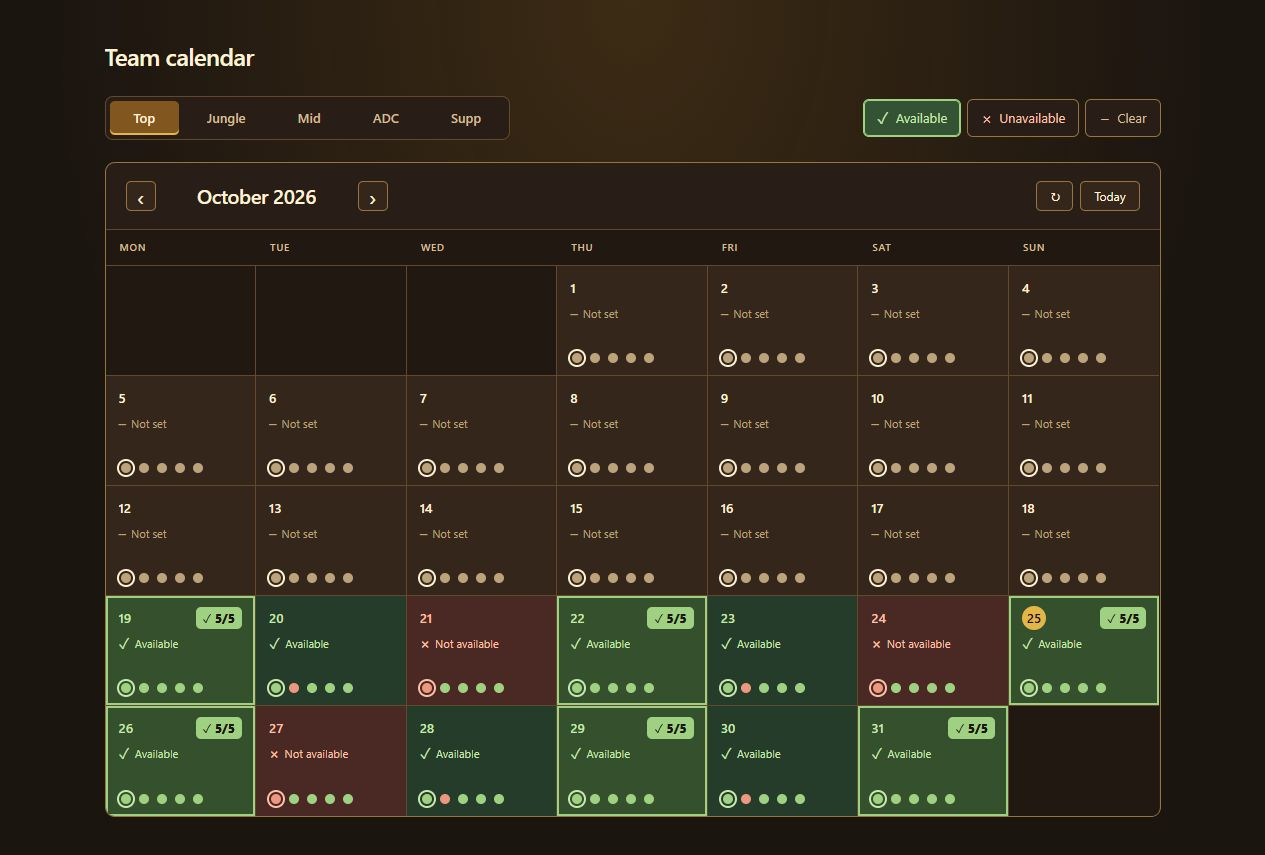
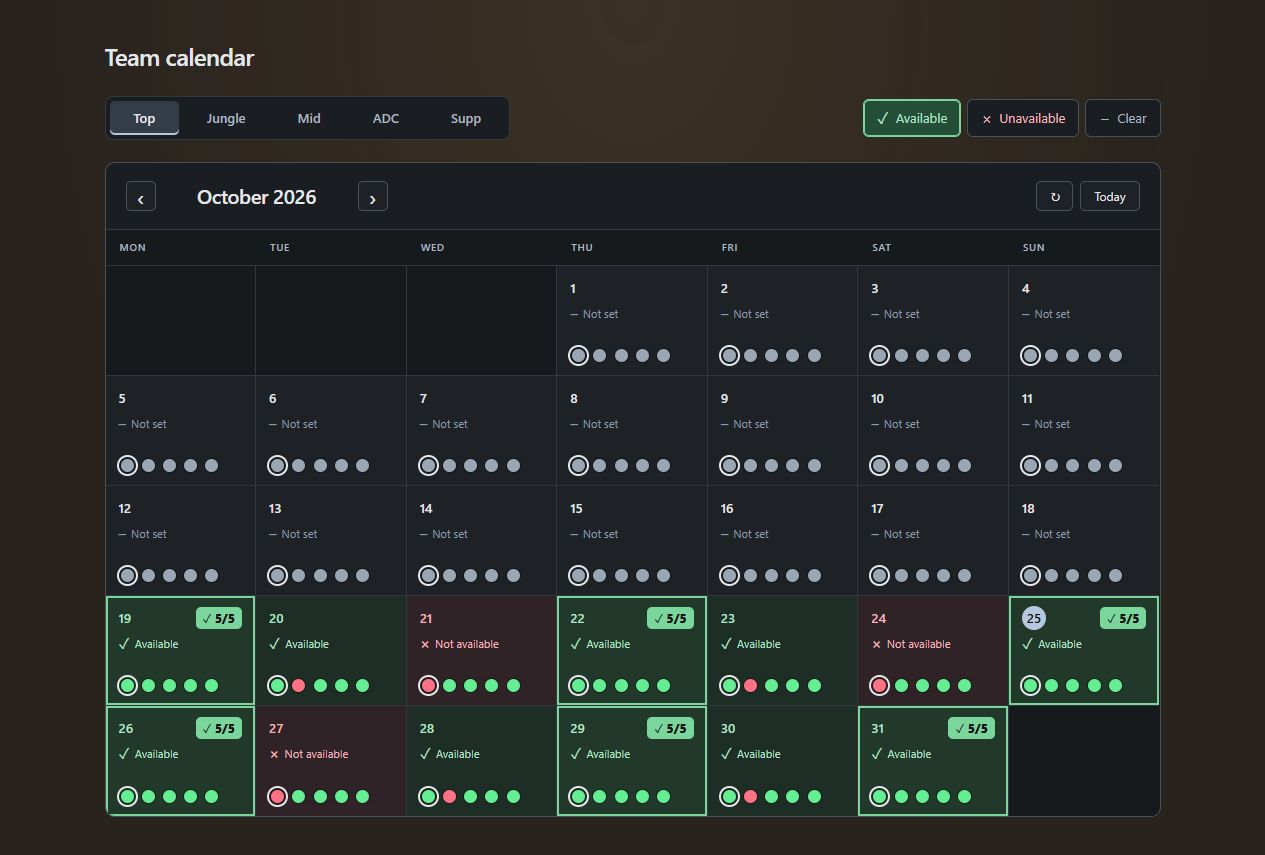
edited color palette, more easy on the eyes

diff --git a/src/styles.css b/src/styles.css
@@ -1,25 +1,30 @@
 :root {
-  --page: #1b1510;
-  --surface: #291e17;
-  --surface-raised: #35261c;
-  --surface-recessed: #211811;
-  --surface-hover: #4a3522;
-  --selected: #81571f;
-  --border: #62482c;
-  --border-strong: #98743e;
-  --text: #fff2d5;
-  --muted: #d4be98;
-  --subtle: #bca37c;
-  --accent: #e4b548;
-  --available-bg: #243c29;
-  --available-selected: #345334;
-  --available-accent: #a0d183;
-  --available-text: #c8e9ad;
-  --all-available-bg: #34502d;
-  --unavailable-bg: #4a2823;
-  --unavailable-selected: #63332b;
-  --unavailable-accent: #ed9780;
-  --unavailable-text: #ffc0a9;
+  --page: #29231e;
+  --page-glow: #9a77442b;
+  --surface: #1a1d21;
+  --surface-raised: #1e2227;
+  --surface-recessed: #171a1d;
+  --surface-hover: #2a3038;
+  --selected: #343c48;
+  --border: #34383e;
+  --border-strong: #49515b;
+  --text: #e5e7eb;
+  --muted: #aeb6c2;
+  --subtle: #8f9baa;
+  --accent: #b5c8e0;
+  --ink: #111315;
+  --available-bg: #1e2e26;
+  --available-selected: #244e38;
+  --available-accent: #7bd69d;
+  --available-text: #b4e4c6;
+  --all-available-bg: #22382b;
+  --unavailable-bg: #302328;
+  --unavailable-selected: #562e35;
+  --unavailable-accent: #eb8c98;
+  --unavailable-text: #f5b4bd;
+  --available-dot: #64ed93;
+  --unavailable-dot: #ff7185;
+  --unset-dot: #9ba6b5;
   font-family: Inter, -apple-system, BlinkMacSystemFont, "Segoe UI", sans-serif;
   color: var(--text);
   background: var(--page);
@@ -28,7 +33,7 @@
   line-height: 1.5;
 }
 * { box-sizing: border-box; }
-body { margin: 0; background: radial-gradient(ellipse at 50% 0, #a06d2140, transparent 65%); min-height: 100vh; }
+body { margin: 0; background: radial-gradient(ellipse at 50% 0, var(--page-glow), transparent 65%); min-height: 100vh; }
 button { font: inherit; cursor: pointer; touch-action: manipulation; }
 button:focus-visible { outline: 2px solid var(--accent); outline-offset: -3px; }
 button:disabled { cursor: wait; }
@@ -58,7 +63,7 @@ h2 { margin: 0; font-weight: 600; }
 .arrow, .today-button { border: 1px solid var(--border-strong); border-radius: 5px; background: var(--surface-raised); color: var(--text); }
 .arrow { width: 30px; height: 30px; font-size: 24px; line-height: 20px; }
 .today-button { padding: 5px 13px; font-size: 12px; }
-.arrow:hover, .today-button:hover { color: white; background: var(--surface-hover); }
+.arrow:hover, .today-button:hover { color: var(--text); background: var(--surface-hover); }
 .weekdays, .days { display: grid; grid-template-columns: repeat(7, minmax(0, 1fr)); }
 .days { touch-action: none; user-select: none; }
 .day { touch-action: none; }
@@ -71,22 +76,22 @@ h2 { margin: 0; font-weight: 600; }
 .day:hover { z-index: 1; box-shadow: inset 0 0 0 2px var(--accent); }
 .day.available { background: var(--available-bg); color: var(--available-text); }
 .day.unavailable { background: var(--unavailable-bg); color: var(--unavailable-text); }
-.day.is-today .day-number { display: grid; width: 24px; height: 24px; place-items: center; border-radius: 50%; background: var(--accent); color: var(--page); }
+.day.is-today .day-number { display: grid; width: 24px; height: 24px; place-items: center; border-radius: 50%; background: var(--accent); color: var(--ink); }
 .day-top { display: flex; height: 24px; align-items: center; justify-content: space-between; }
 .day-number { font-size: 13px; font-weight: 600; }
 .day-status { display: flex; gap: 5px; align-items: center; margin-top: 6px; font-size: 11px; }
 .day-status > span:first-child { font-size: 15px; font-weight: 600; line-height: 1; }
 .day.unset .day-status { color: var(--subtle); }
-.team-dots { display: flex; align-items: center; gap: 8px; margin-top: auto; padding: 13px 2px 2px; }
-.team-dot { display: inline-block; flex-shrink: 0; width: 10px; height: 10px; border-radius: 50%; }
-.team-dot.available { background: var(--available-accent); }
-.team-dot.unavailable { background: var(--unavailable-accent); }
-.team-dot.unset { background: var(--subtle); }
-.active-dot { outline: 2px solid currentColor; outline-offset: 2px; }
+.team-dots { display: flex; align-items: center; gap: clamp(4px, .65vw, 9px); margin-top: auto; padding: 14px 2px 3px; }
+.team-dot { display: inline-block; flex-shrink: 0; width: clamp(8px, 1.1vw, 13px); height: clamp(8px, 1.1vw, 13px); border-radius: 50%; box-shadow: 0 0 0 1px #00000066; }
+.team-dot.available { background: var(--available-dot); }
+.team-dot.unavailable { background: var(--unavailable-dot); }
+.team-dot.unset { background: var(--unset-dot); }
+.active-dot { outline: 2px solid var(--text); outline-offset: 2px; }
 .empty-day { background: var(--surface-recessed); }
 .day.all-available { background: var(--all-available-bg); box-shadow: inset 0 0 0 2px var(--available-accent); }
 .day.all-available:hover { box-shadow: inset 0 0 0 3px var(--available-text); }
-.all-in { padding: 2px 7px; border-radius: 5px; background: var(--available-accent); color: var(--page); font-size: 12px; font-weight: 800; white-space: nowrap; }
+.all-in { padding: 2px 7px; border-radius: 5px; background: var(--available-accent); color: var(--ink); font-size: 12px; font-weight: 800; white-space: nowrap; }
 .error { padding: 12px 16px; border: 1px solid var(--unavailable-accent); border-radius: 8px; background: var(--unavailable-bg); color: var(--unavailable-text); font-size: 13px; }
 @media (min-width: 1400px) {
   main { padding-top: 48px; }
@@ -110,8 +115,8 @@ h2 { margin: 0; font-weight: 600; }
   .day-number { font-size: 12px; }
   .day-status { margin-top: 8px; }
   .status-text { display: none; }
-  .team-dots { gap: clamp(1px, .5vw, 4px); padding-left: 0; padding-right: 0; }
-  .team-dot { width: clamp(5px, 1.2vw, 9px); height: clamp(5px, 1.2vw, 9px); }
+  .team-dots { gap: clamp(1px, .4vw, 3px); padding-left: 0; padding-right: 0; }
+  .team-dot { width: clamp(5px, 1.7vw, 11px); height: clamp(5px, 1.7vw, 11px); }
   .active-dot { outline-offset: 1px; }
   .all-in { margin-left: auto; padding: 1px 3px; font-size: 10px; }
   .all-in > span { display: none; }

diff --git a/index.html b/index.html
@@ -3,7 +3,7 @@
   <head>
     <meta charset="UTF-8" />
     <meta name="viewport" content="width=device-width, initial-scale=1.0" />
-    <meta name="theme-color" content="#1b1510" />
+    <meta name="theme-color" content="#29231e" />
     <title>Team Calendar</title>
   </head>
   <body>
